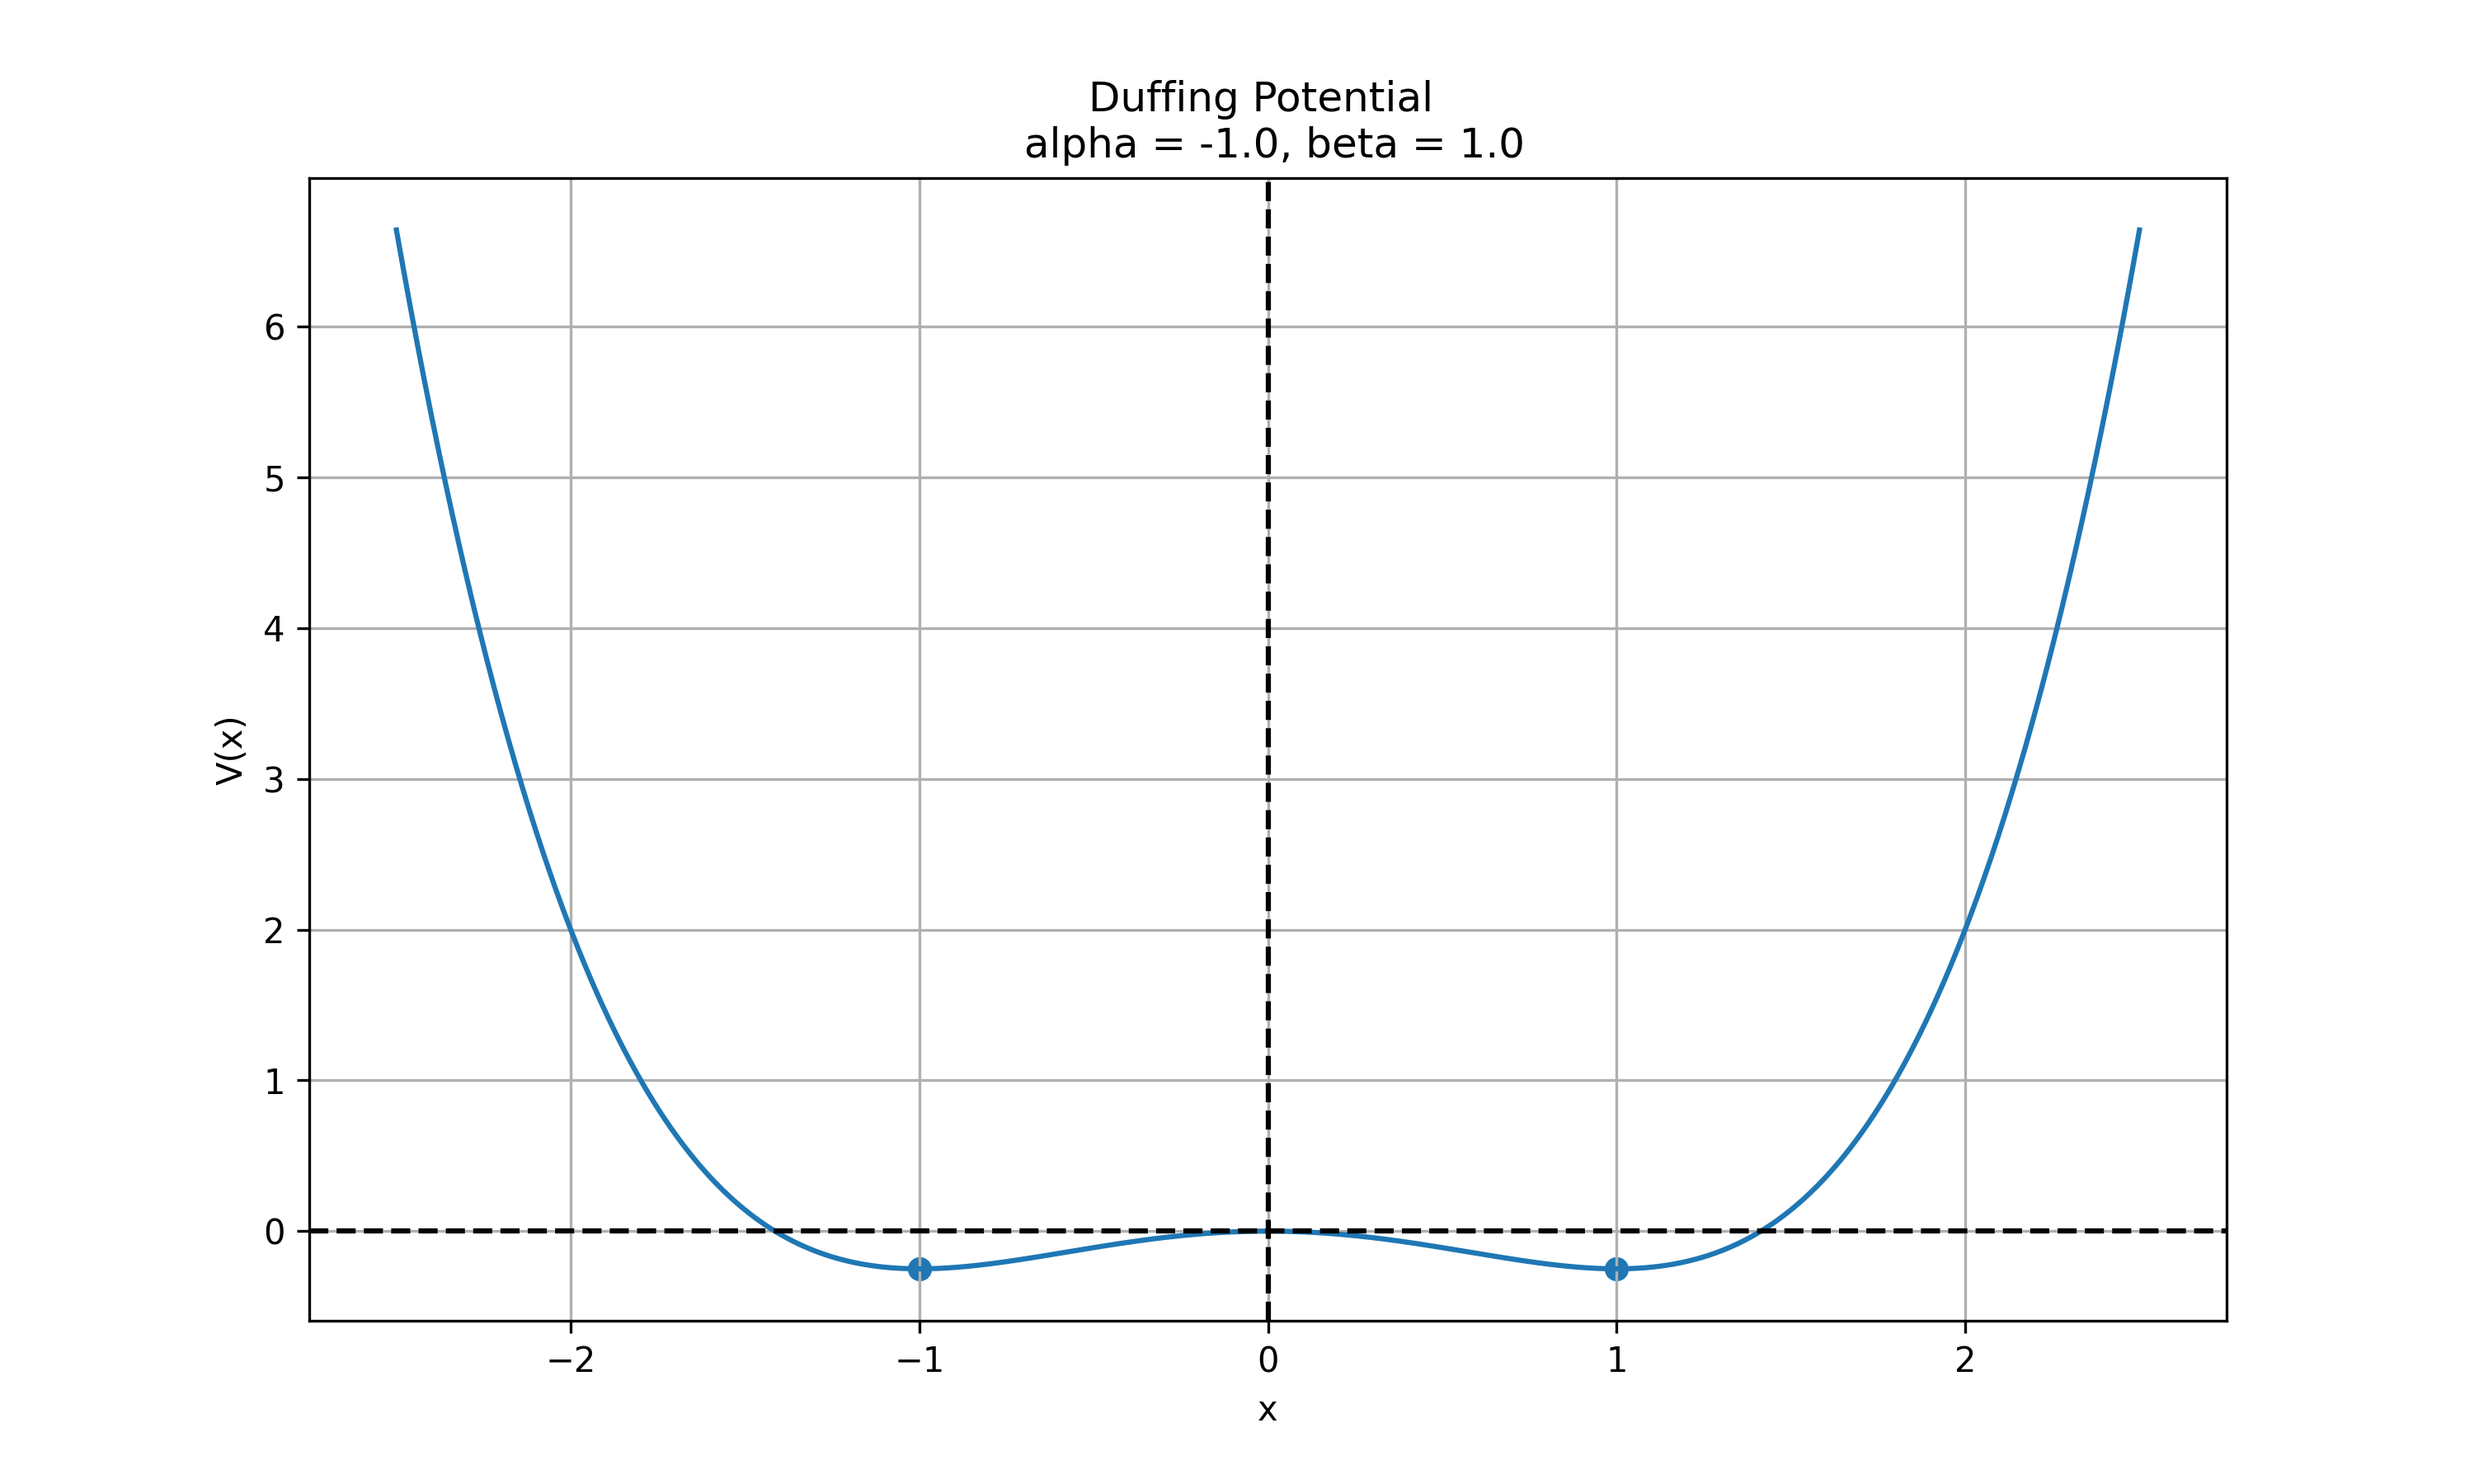
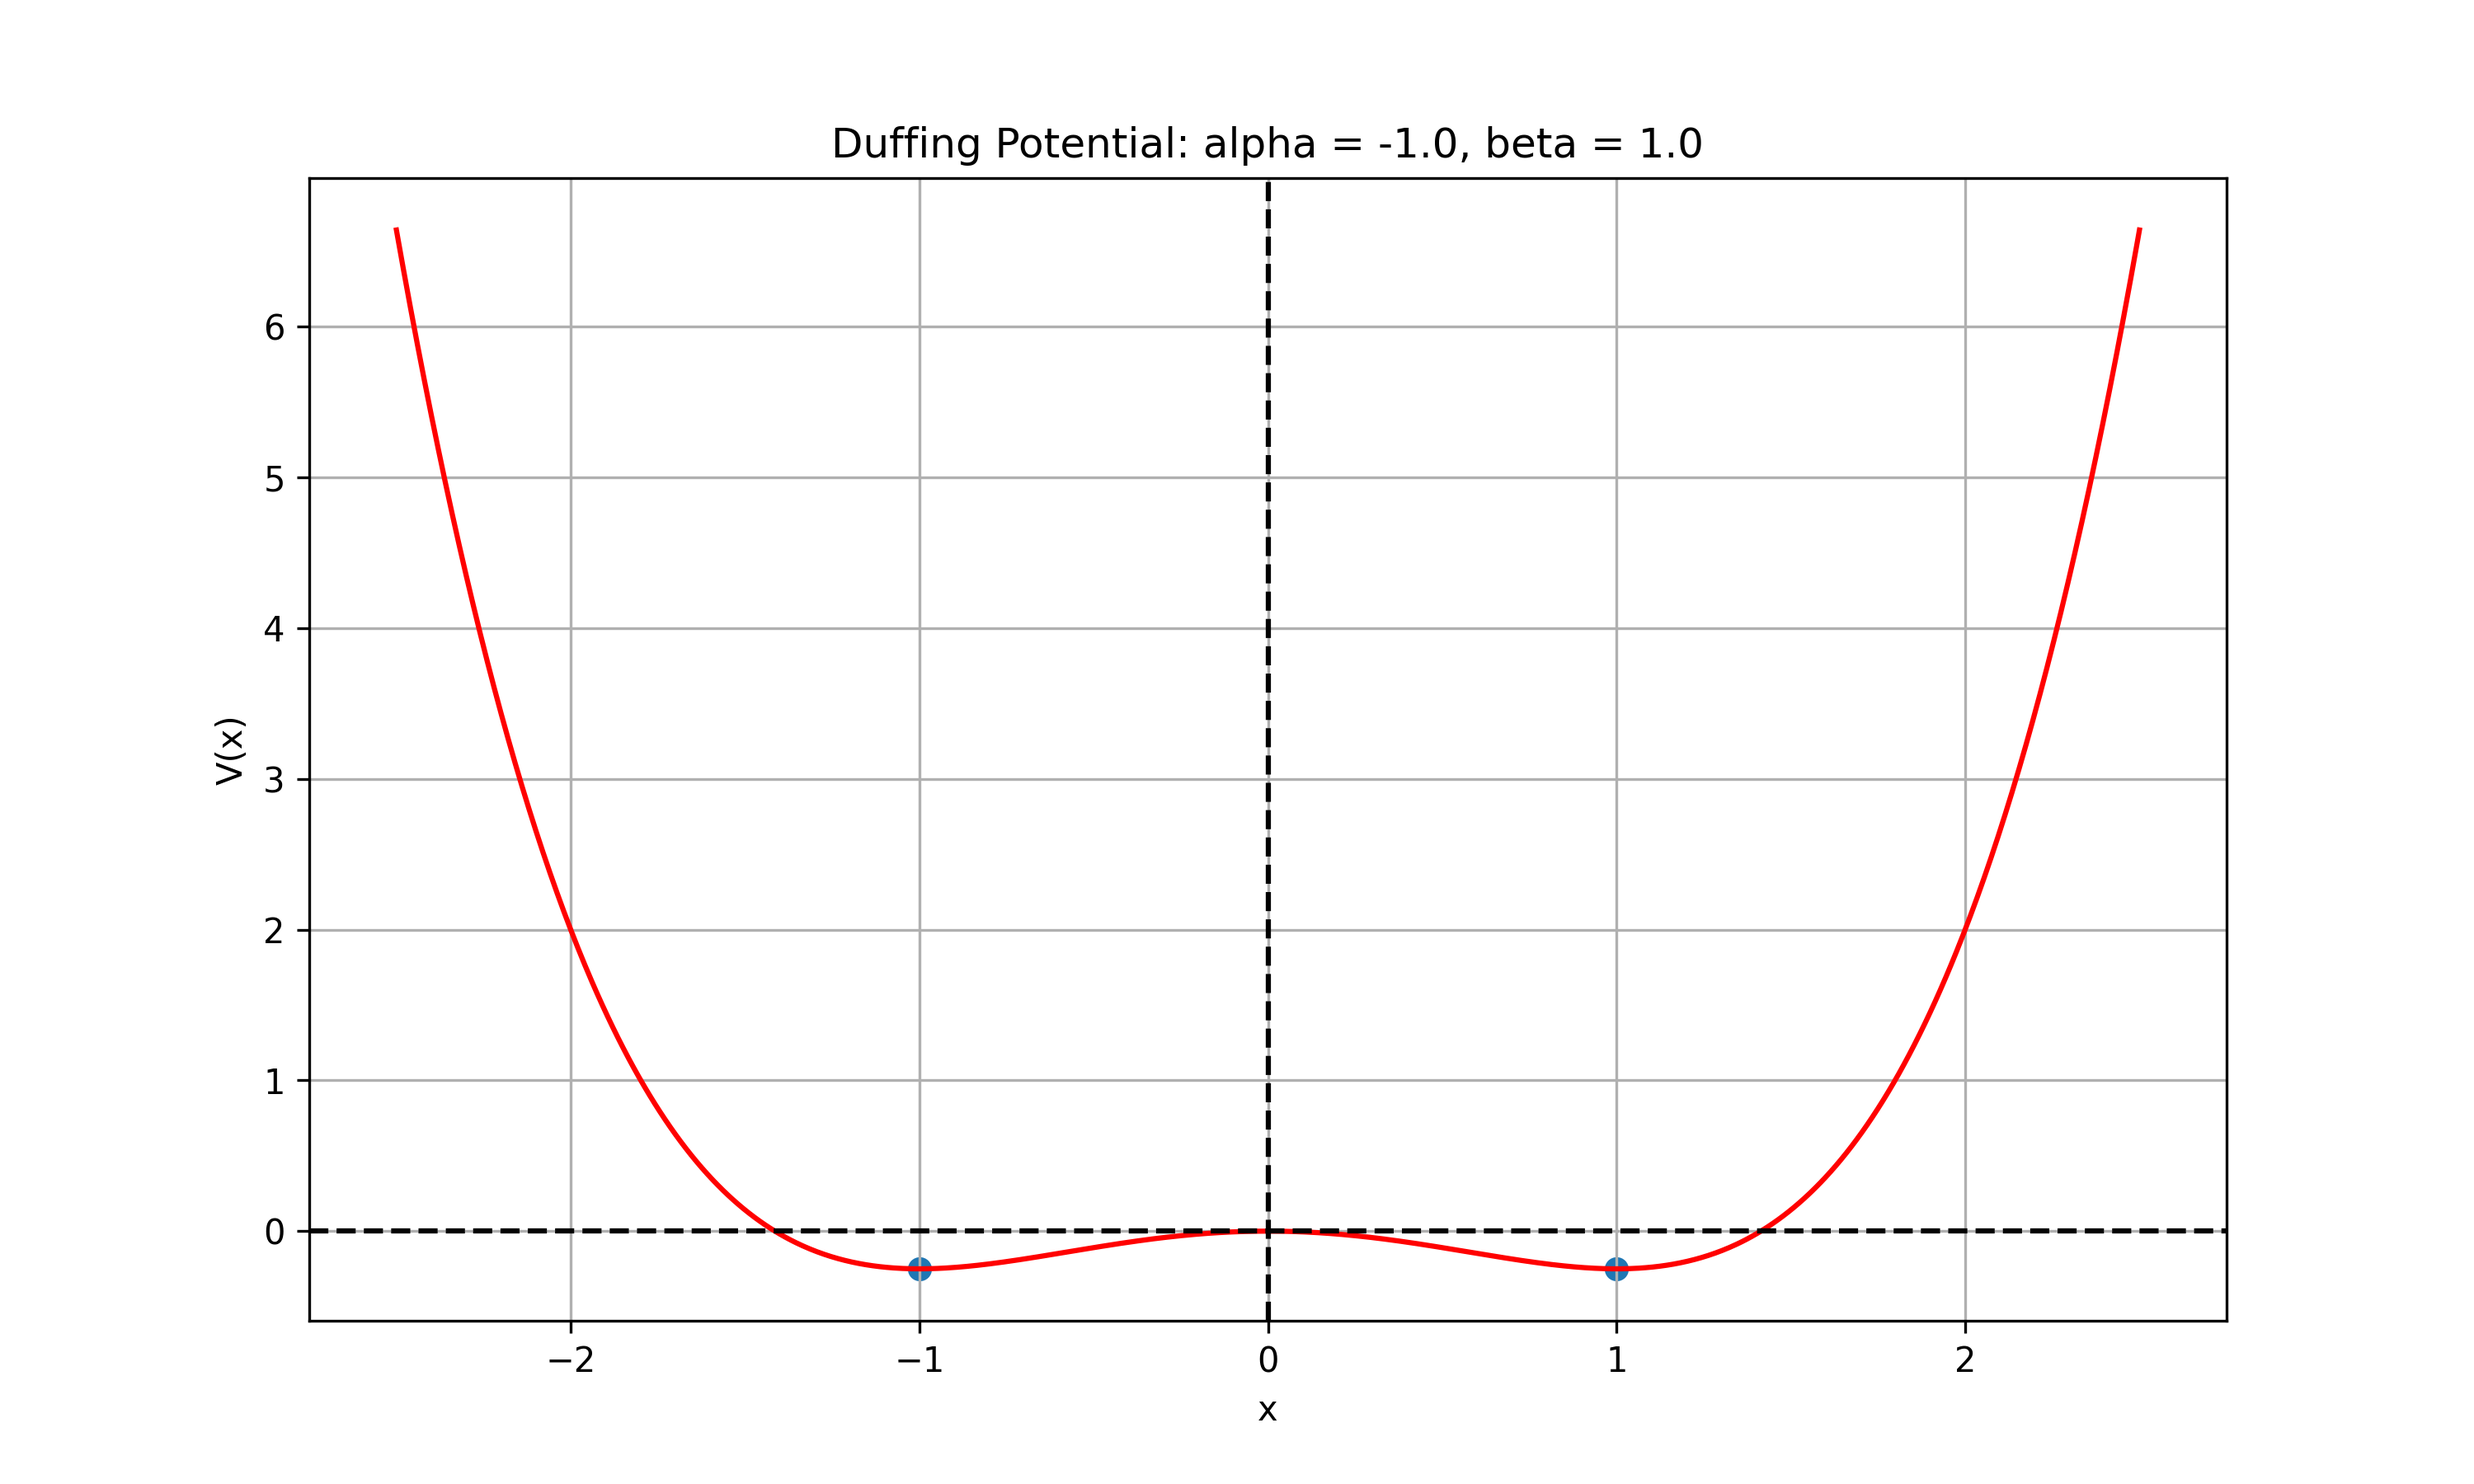
immagini poteniale modificate

diff --git a/Es_11/duffing_potential_plotter.py b/Es_11/duffing_potential_plotter.py
@@ -19,7 +19,7 @@ def duffing_potential(x, alpha, beta):
 # -----------------------------
 # Parameters (EDIT THESE)
 # -----------------------------
-alpha = 1.0   # try +1.0 for single-well
+alpha = -1.0   # try +1.0 for single-well
 beta = 1.0     # must be > 0 for stability
 
 # -----------------------------
@@ -32,7 +32,7 @@ V = duffing_potential(x, alpha, beta)
 # Plot
 # -----------------------------
 fig, ax = plt.subplots(figsize=(10, 6))
-ax.plot(x, V)
+ax.plot(x, V, color='red')
 ax.axhline(0, linestyle='--', color='black')
 ax.axvline(0, linestyle='--', color='black')
 
@@ -44,7 +44,7 @@ if alpha < 0 and beta > 0:
 elif alpha > 0:
     ax.scatter([0], [0])
 
-plt.title(f"Duffing Potential \n alpha = {alpha}, beta = {beta}")
+plt.title(f"Duffing Potential: alpha = {alpha}, beta = {beta}")
 ax.set_xlabel("x")
 ax.set_ylabel("V(x)")
 ax.grid(True)
